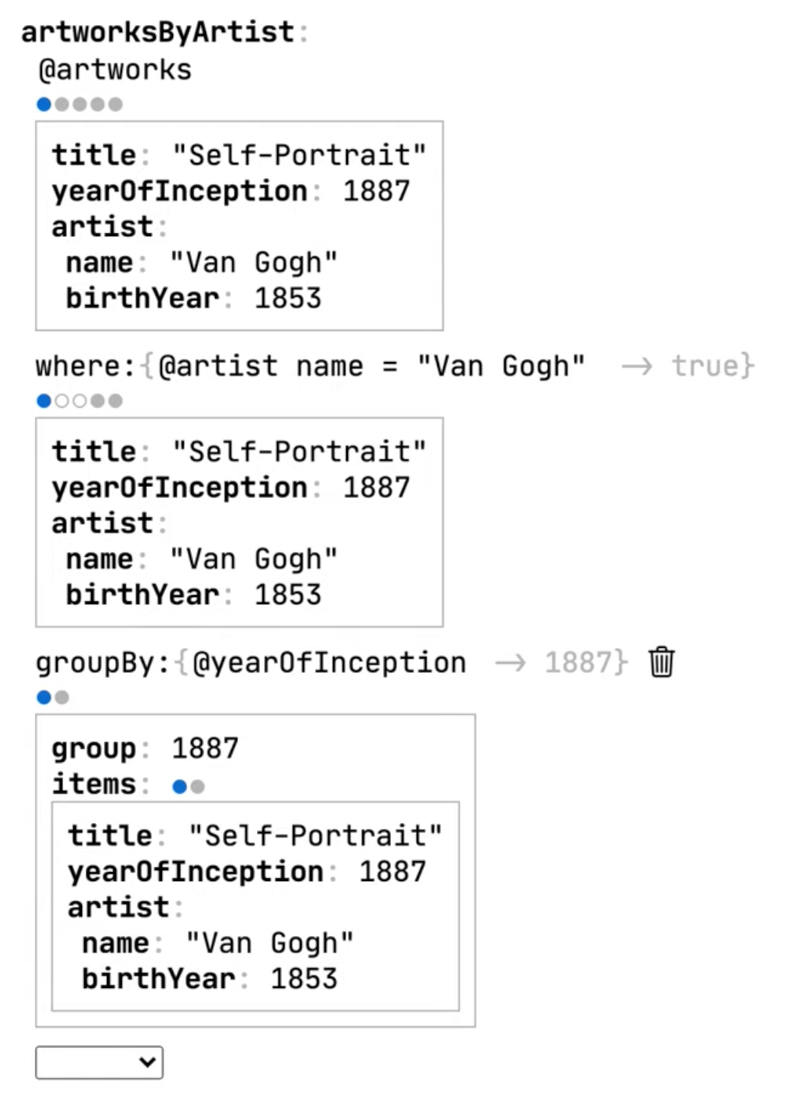
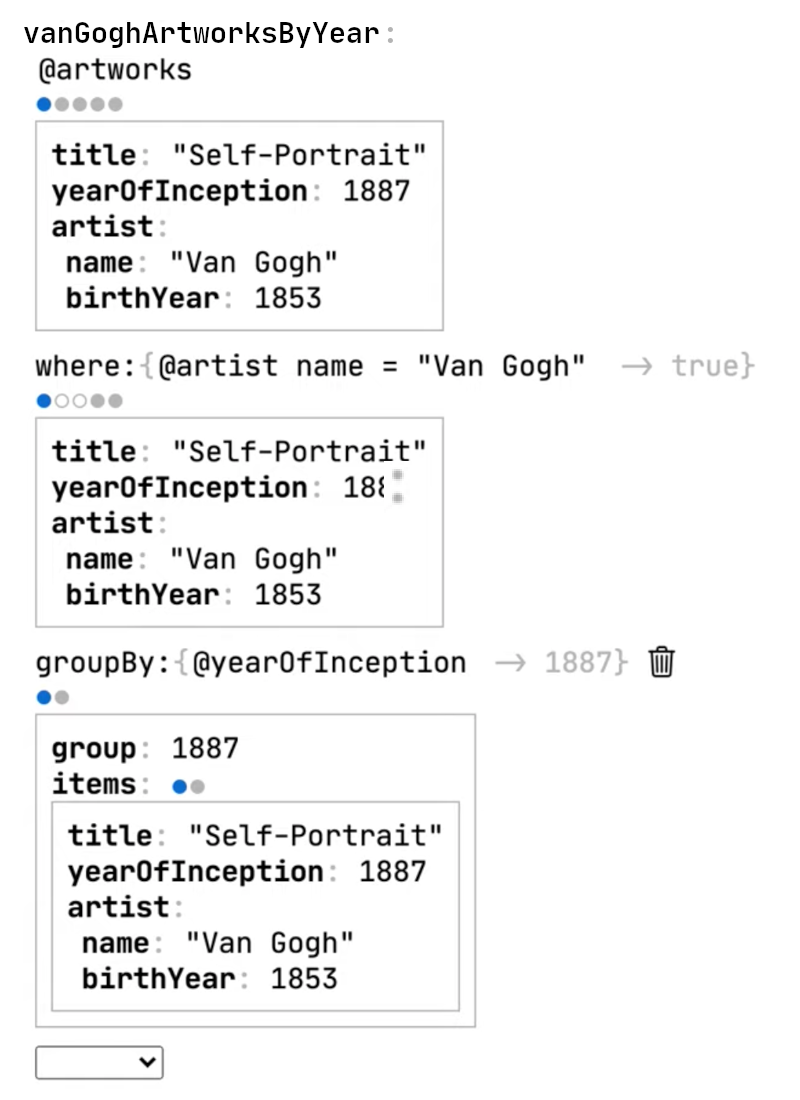
Improve texts of graphical interace and natural language section
- add alt text for images

Changed region(s): [[0.0312, 0.0, 0.4688, 0.0618], [0.4688, 0.4327, 0.5312, 0.4636]]

diff --git a/index.html b/index.html
@@ -29,9 +29,8 @@
         <h1>Programming through graphical interfaces</h1>
 
         <p>
-          This is a project I've developed under the name <i>Pluto</i>. Originally the goal was to turn this
-          into a working product but over time I've realized the tremendous scope. So now it's a collection
-          of several prototypes that experiment with new graphical interfaces for building interactive applications.
+          This is a series of prototypes I've developed under the name Pluto.
+          My goal was to make programming more direct and concrete by replacing or augmenting static code with graphical interfaces.
         </p>
       </div>
 
@@ -46,7 +45,7 @@
           <img
             class="project-thumbnail"
             src="images/pluto-statechart-thumbnail.png"
-            alt="statechart of photo app"
+            alt="statechart of photo app with three screens: base, isUserSelected and isPhotoSelected"
           >
 
           <div class="project-description">
@@ -61,26 +60,37 @@
             ></div>
 
             <p>
-              I was inspired by <a href="https://sketch.systems/">sketch.systems</a> a small tool that helps you
-              to reason about the underlying states of complex applications with statecharts.
-              I liked the idea of having a single graphical representation that gives you a high level overview overview
-              of a complex system. Sketch.systems can be only used to create click dummies. With this prototype
-              I tried to do but with the goal that
+              I was inspired by <a href="https://sketch.systems/">sketch.systems</a>, a small tool that helps you reason
+              about the underlying states of complex applications with statecharts. I liked the idea of having a single
+              graphical representation that gives you a high-level overview of your application. With sketch.systems
+              you are limited to building click dummies. I wanted to use this paradigm and develop a tool for creating
+              real applications.
             </p>
 
             <figure>
-              <img width="400" src="images/pluto-statechart-sketch-systems.png">
-              <figcaption>sketch.system: state chart of the possible states</figcaption>
+              <img
+                width="400"
+                src="images/pluto-statechart-sketch-systems.png"
+                alt="
+                  A statechart for a search bar that has two high level states inactive and active.
+                  The active state has three sub states empty, text entry and result
+                "
+              >
+              <figcaption>statechart of a search bar in sketch.systems</figcaption>
             </figure>
 
             <p>
               One thing that would be interesting to explore further is to allow nested states by introducing the
-              concept of components that have their own internal state.
+              concept of components that have an internal state.
             </p>
 
             <figure>
-              <img width="400" src="images/pluto-statechart-todo-example.png" alt="statechart of todo item">
-              <figcaption>Example how the internal state of a todo item in a todo app could look like</figcaption>
+              <img
+                width="400"
+                src="images/pluto-statechart-todo-example.png"
+                alt="statechart of todo item"
+              >
+              <figcaption>example how the internal state of a todo item in a todo app could look like</figcaption>
             </figure>
           </div>
         </div>
@@ -94,7 +104,7 @@
           <img
             class="project-thumbnail"
             src="images/pluto-data-transform-thumbnail.png"
-            alt="visualization of data transform that filters for artworks by Van Gogh and groups them by year"
+            alt="visualization of data transform that selects all artworks by Van Gogh and groups them by year"
           >
 
           <div class="project-description">
@@ -110,23 +120,28 @@
             ></a>
 
             <p>
-              A live coding environment for data transformations. It always shows you the data that you're operating on
-              so you don't have to play computer in your head. List results are displayed in an abbreviated form where
-              the whole list is represented by one example item. This compact format gives the environment enough space
-              to show intermediate results so you can follow along multi step computations
+              A live coding environment for data transformations that always shows you the data on which you're operating.
+              The results of list operations are displayed in an abbreviated form where one example item represents the whole list.
+              This compact format gives the environment enough space to show intermediate results so you can trace back
+              unexpected results step by step.
             </p>
 
-            <img
-              width="400"
-              src="images/pluto-data-transform-example.png"
-              alt=""
-            >
+            <figure>
+              <img
+                width="400"
+                src="images/pluto-data-transform-example.png"
+                alt="vanGoghArtworksByYear: @artworks where { @artist name = 'Van Gogh' } groupBy: { @yearOfInception }"
+              >
+              <figcaption>
+                data transformation that selects Van Gogh's artworks and groups them by year
+              </figcaption>
+            </figure>
 
             <p>
-              The dots indicate the number of items in a list an can also be used to navigate between them
-              They can also provide additional information here we can see that
-              that the second and third item have been filtered out
-              You can also collapse the graphical annotations so it takes the same space as a purely textual representation
+              The dots indicate the number of items in a list and can also be used to navigate between them. The appearance
+              of the dots can also provide additional information. For example, we can see that the where operation filters
+              the second and third items out. You can also collapse the graphical annotations, so it takes the same space
+              as a purely textual representation.
             </p>
 
             <img
@@ -146,6 +161,7 @@
           <img
             class="project-thumbnail"
             src="images/pluto-table-thumbnail.png"
+            alt="nested table that shows artists with their artworks"
           >
 
           <div class="project-description" data-description>
@@ -165,7 +181,7 @@
       </div>
 
       <div class="project-group-details is-collapsed">
-        <button class="close-button"></button>
+        <button class="close-button" aria-label="close"></button>
         <div class="content"></div>
       </div>
     </div>
@@ -189,17 +205,21 @@
           <img
             class="project-thumbnail"
             src="images/garlang-thumbnail.png"
-            alt="interaction model of Garlang"
+            alt="
+              schematic sketch of the user model of Garlang, the user interacts with the knowledge model
+              which is represented as a dictionary through searches. Both the searches and the knowledge model
+              are changeable by the user.
+            "
           >
 
           <div class="project-description">
 
             <p>
-              This is a concept I developed as part of my
-              <a href="papers/diy-information-software.pdf">bachelor thesis</a>.
-              The programming language was based around the idea that you can define concepts in a naturalistic language
-              in form of a dictionary. Internally the statements are translated to Datalog predicates. For example
-              the definition of an employee could look like this:
+              "Do-it-yourself informationn software" is a concept I developed as part of my
+              <a href="papers/diy-information-software.pdf">bachelor thesis</a> with the
+              hypothetical programming language Garlang. The programming language was based on the idea that you can
+              define concepts in a naturalistic language in the form of a dictionary. Internally the statements are
+              translated to Datalog predicates. For example, the definition of an employee could look like this:
             </p>
 
             <div class="garlang-definition">
@@ -211,8 +231,8 @@
             </div>
 
             <p>
-              Existing definitions can be used to define new concepts. For example we can define the monthly work duration
-              based on the work duration per week like this:
+              We can use existing definitions to define new concepts. For example, we can define the monthly work
+              duration based on the work duration per week like this:
             </p>
 
             <div class="garlang-definition">
@@ -226,33 +246,48 @@
               We can then use these definitions to ask questions about our knowledge model with searches.
             </p>
 
-            <img src="images/garlang-employees-search.png" width="400">
+            <img
+              src="images/garlang-employees-search.png"
+              width="400"
+              alt="search for 'all employees', result is a list of employee names"
+            >
 
             <p>
               The result of a search can be visualized in different ways, depending on the type of the result.
-              If we search for shifts we can either display them as a list or a calendar.
+              If we search for shifts, we can either display them as a list or a calendar.
             </p>
 
-            <img src="images/garlang-shift-search.png" width="800">
-
+            <img
+              src="images/garlang-shift-search.png"
+              width="800"
+              alt="
+                Two searches for 'all shifts'. The left search is visualized as a list of shifts.
+                The right is visualized as a weekly calendar where the shifts are displayed as blocks in the calendar.
+              "
+            >
 
             <p>
-              Multiple searches can be chained together to create adhoc tools to solve problems as they come up.
+              Multiple searches can be chained together to create ad-hoc tools to solve problems as they come up.
               Here we chain together a search for shifts that haven't been fully assigned yet with a search
-              for employees that are available this week to figure out which employees need to be assigned.
+              for employees that are available this week to figure out which employees we need to assign.
             </p>
 
-            <img src="images/garlang-shift-plan.png" width="850">
-
+            <img
+              src="images/garlang-shift-plan.png"
+              width="850"
+              alt="
+                The first search for 'all shifts that are not fully assigned' is displayed as a calendar.
+                The second search for 'all employees that are available during the visible timeframe of the
+                shift search' is displayed as a list
+              "
+            >
 
           </div>
         </div>
-
-
       </div>
 
       <div class="project-group-details is-collapsed">
-        <button class="close-button"></button>
+        <button class="close-button" aria-label="close"></button>
         <div class="content"></div>
       </div>
 
